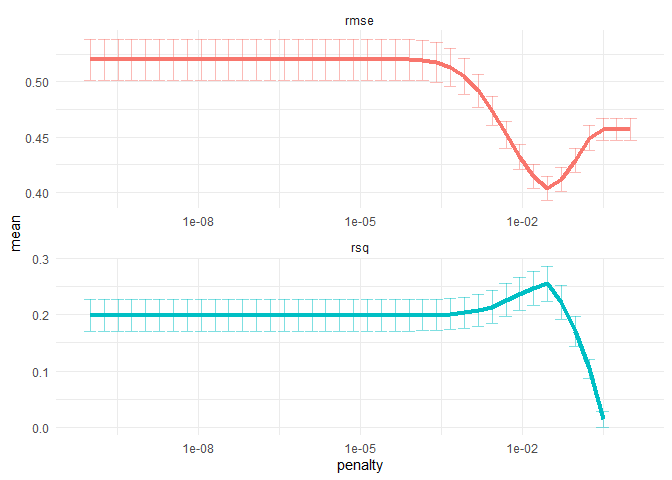
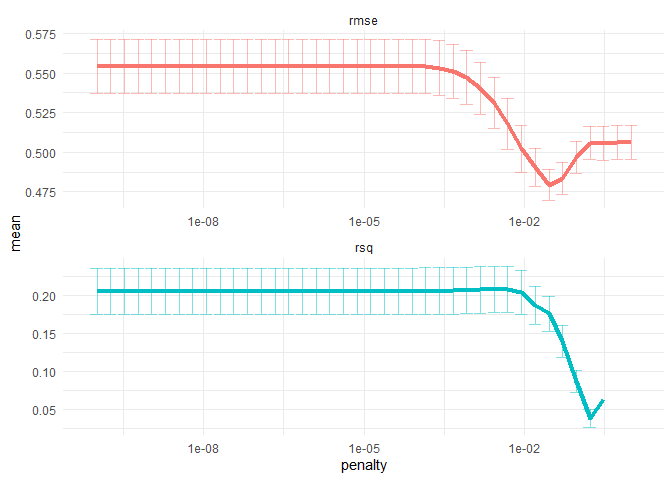
TheOffice.Penalty.028

diff --git a/TheOffice/TheOffice.md b/TheOffice/TheOffice.md
@@ -489,20 +489,20 @@ lasso_fit %>%
   tidy()
 ```
 
-    ## # A tibble: 1,348 x 5
+    ## # A tibble: 1,332 x 5
     ##    term         step estimate lambda dev.ratio
     ##    <chr>       <dbl>    <dbl>  <dbl>     <dbl>
-    ##  1 (Intercept)     1  8.41     0.207    0     
-    ##  2 (Intercept)     2  8.41     0.188    0.0342
-    ##  3 jim             2  0.0185   0.188    0.0342
-    ##  4 (Intercept)     3  8.41     0.172    0.0663
-    ##  5 jim             3  0.0347   0.172    0.0663
-    ##  6 michael         3  0.00295  0.172    0.0663
-    ##  7 (Intercept)     4  8.41     0.156    0.105 
-    ##  8 jim             4  0.0473   0.156    0.105 
-    ##  9 michael         4  0.0155   0.156    0.105 
-    ## 10 (Intercept)     5  8.41     0.142    0.137 
-    ## # ... with 1,338 more rows
+    ##  1 (Intercept)     1  8.45     0.177    0     
+    ##  2 (Intercept)     2  8.45     0.161    0.0228
+    ##  3 phyllis         2  0.0158   0.161    0.0228
+    ##  4 (Intercept)     3  8.45     0.147    0.0457
+    ##  5 michael         3  0.00331  0.147    0.0457
+    ##  6 phyllis         3  0.0301   0.147    0.0457
+    ##  7 (Intercept)     4  8.45     0.134    0.0831
+    ##  8 episode         4  0.00596  0.134    0.0831
+    ##  9 michael         4  0.0165   0.134    0.0831
+    ## 10 phyllis         4  0.0424   0.134    0.0831
+    ## # ... with 1,322 more rows
 
 If you have used `glmnet` before, this is the familiar output where we
 can see (here, for the most regularized examples) the features that
@@ -555,16 +555,16 @@ lasso_grid %>%
     ## # A tibble: 80 x 6
     ##     penalty .metric .estimator  mean     n std_err
     ##       <dbl> <chr>   <chr>      <dbl> <int>   <dbl>
-    ##  1 1.00e-10 rmse    standard   0.520    25  0.0185
-    ##  2 1.00e-10 rsq     standard   0.199    25  0.0277
-    ##  3 1.80e-10 rmse    standard   0.520    25  0.0185
-    ##  4 1.80e-10 rsq     standard   0.199    25  0.0277
-    ##  5 3.26e-10 rmse    standard   0.520    25  0.0185
-    ##  6 3.26e-10 rsq     standard   0.199    25  0.0277
-    ##  7 5.88e-10 rmse    standard   0.520    25  0.0185
-    ##  8 5.88e-10 rsq     standard   0.199    25  0.0277
-    ##  9 1.06e- 9 rmse    standard   0.520    25  0.0185
-    ## 10 1.06e- 9 rsq     standard   0.199    25  0.0277
+    ##  1 1.00e-10 rmse    standard   0.554    25  0.0173
+    ##  2 1.00e-10 rsq     standard   0.206    25  0.0305
+    ##  3 1.80e-10 rmse    standard   0.554    25  0.0173
+    ##  4 1.80e-10 rsq     standard   0.206    25  0.0305
+    ##  5 3.26e-10 rmse    standard   0.554    25  0.0173
+    ##  6 3.26e-10 rsq     standard   0.206    25  0.0305
+    ##  7 5.88e-10 rmse    standard   0.554    25  0.0173
+    ##  8 5.88e-10 rsq     standard   0.206    25  0.0305
+    ##  9 1.06e- 9 rmse    standard   0.554    25  0.0173
+    ## 10 1.06e- 9 rsq     standard   0.206    25  0.0305
     ## # ... with 70 more rows
 
 That’s nice, but I would rather see a visualization of performance with
@@ -608,17 +608,17 @@ final_lasso <- finalize_workflow(
 final_lasso
 ```
 
-    ## == Workflow ======================================================
+    ## == Workflow ==========================================================
     ## Preprocessor: Recipe
     ## Model: linear_reg()
     ## 
-    ## -- Preprocessor --------------------------------------------------
+    ## -- Preprocessor ------------------------------------------------------
     ## 2 Recipe Steps
     ## 
     ## * step_zv()
     ## * step_normalize()
     ## 
-    ## -- Model ---------------------------------------------------------
+    ## -- Model -------------------------------------------------------------
     ## Linear Regression Model Specification (regression)
     ## 
     ## Main Arguments:
@@ -627,7 +627,7 @@ final_lasso
     ## 
     ## Computational engine: glmnet
 
-The optimal penalty is shown here as 0.0522
+The optimal penalty is shown here as 0.0289
 
 We can then fit this finalized workflow on our training data. While
 we’re at it, let’s see what the most important variables are using the
@@ -671,5 +671,5 @@ last_fit(
     ## # A tibble: 2 x 3
     ##   .metric .estimator .estimate
     ##   <chr>   <chr>          <dbl>
-    ## 1 rmse    standard       0.480
-    ## 2 rsq     standard       0.185
+    ## 1 rmse    standard       0.381
+    ## 2 rsq     standard       0.435
